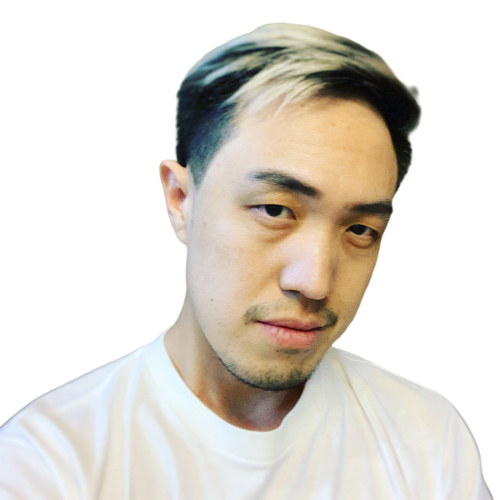
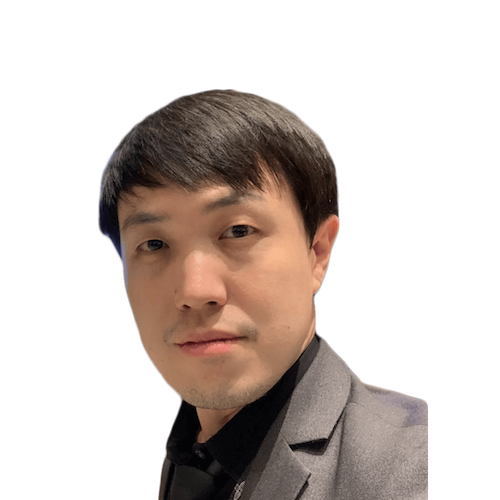
Update guru image

diff --git a/components/sections/ywc18/Guru.vue b/components/sections/ywc18/Guru.vue
@@ -9,6 +9,7 @@
               :fileName="`guru/${gurus[currentGuru].img}`"
               :key="`guru-${index}`"
               v-if="gurus[currentGuru].img === img"
+              style="margin-bottom: 1em;"
             />
           </template>
         </transition>
@@ -376,12 +377,12 @@ export default {
           role: `ผู้ก่อตั้งเว็บไซต์ Grappik`,
           majors: ['design'],
         },
-        // {
-        //   img: 8,
-        //   name: 'เจริญ ลักษณ์เลิศกุล (เจ)',
-        //   role: `Associate Director - Strategic Planning<br>หน่วยงาน Online Station (True Digital Group)`,
-        //   majors: ['marketing'],
-        // },
+        {
+          img: 8,
+          name: 'เจริญ ลักษณ์เลิศกุล (เจ)',
+          role: `Associate Director - Strategic Planning<br>หน่วยงาน Online Station (True Digital Group)`,
+          majors: ['marketing'],
+        },
         {
           img: 9,
           name: 'จักรพงษ์ คงมาลัย (ปอง)',
